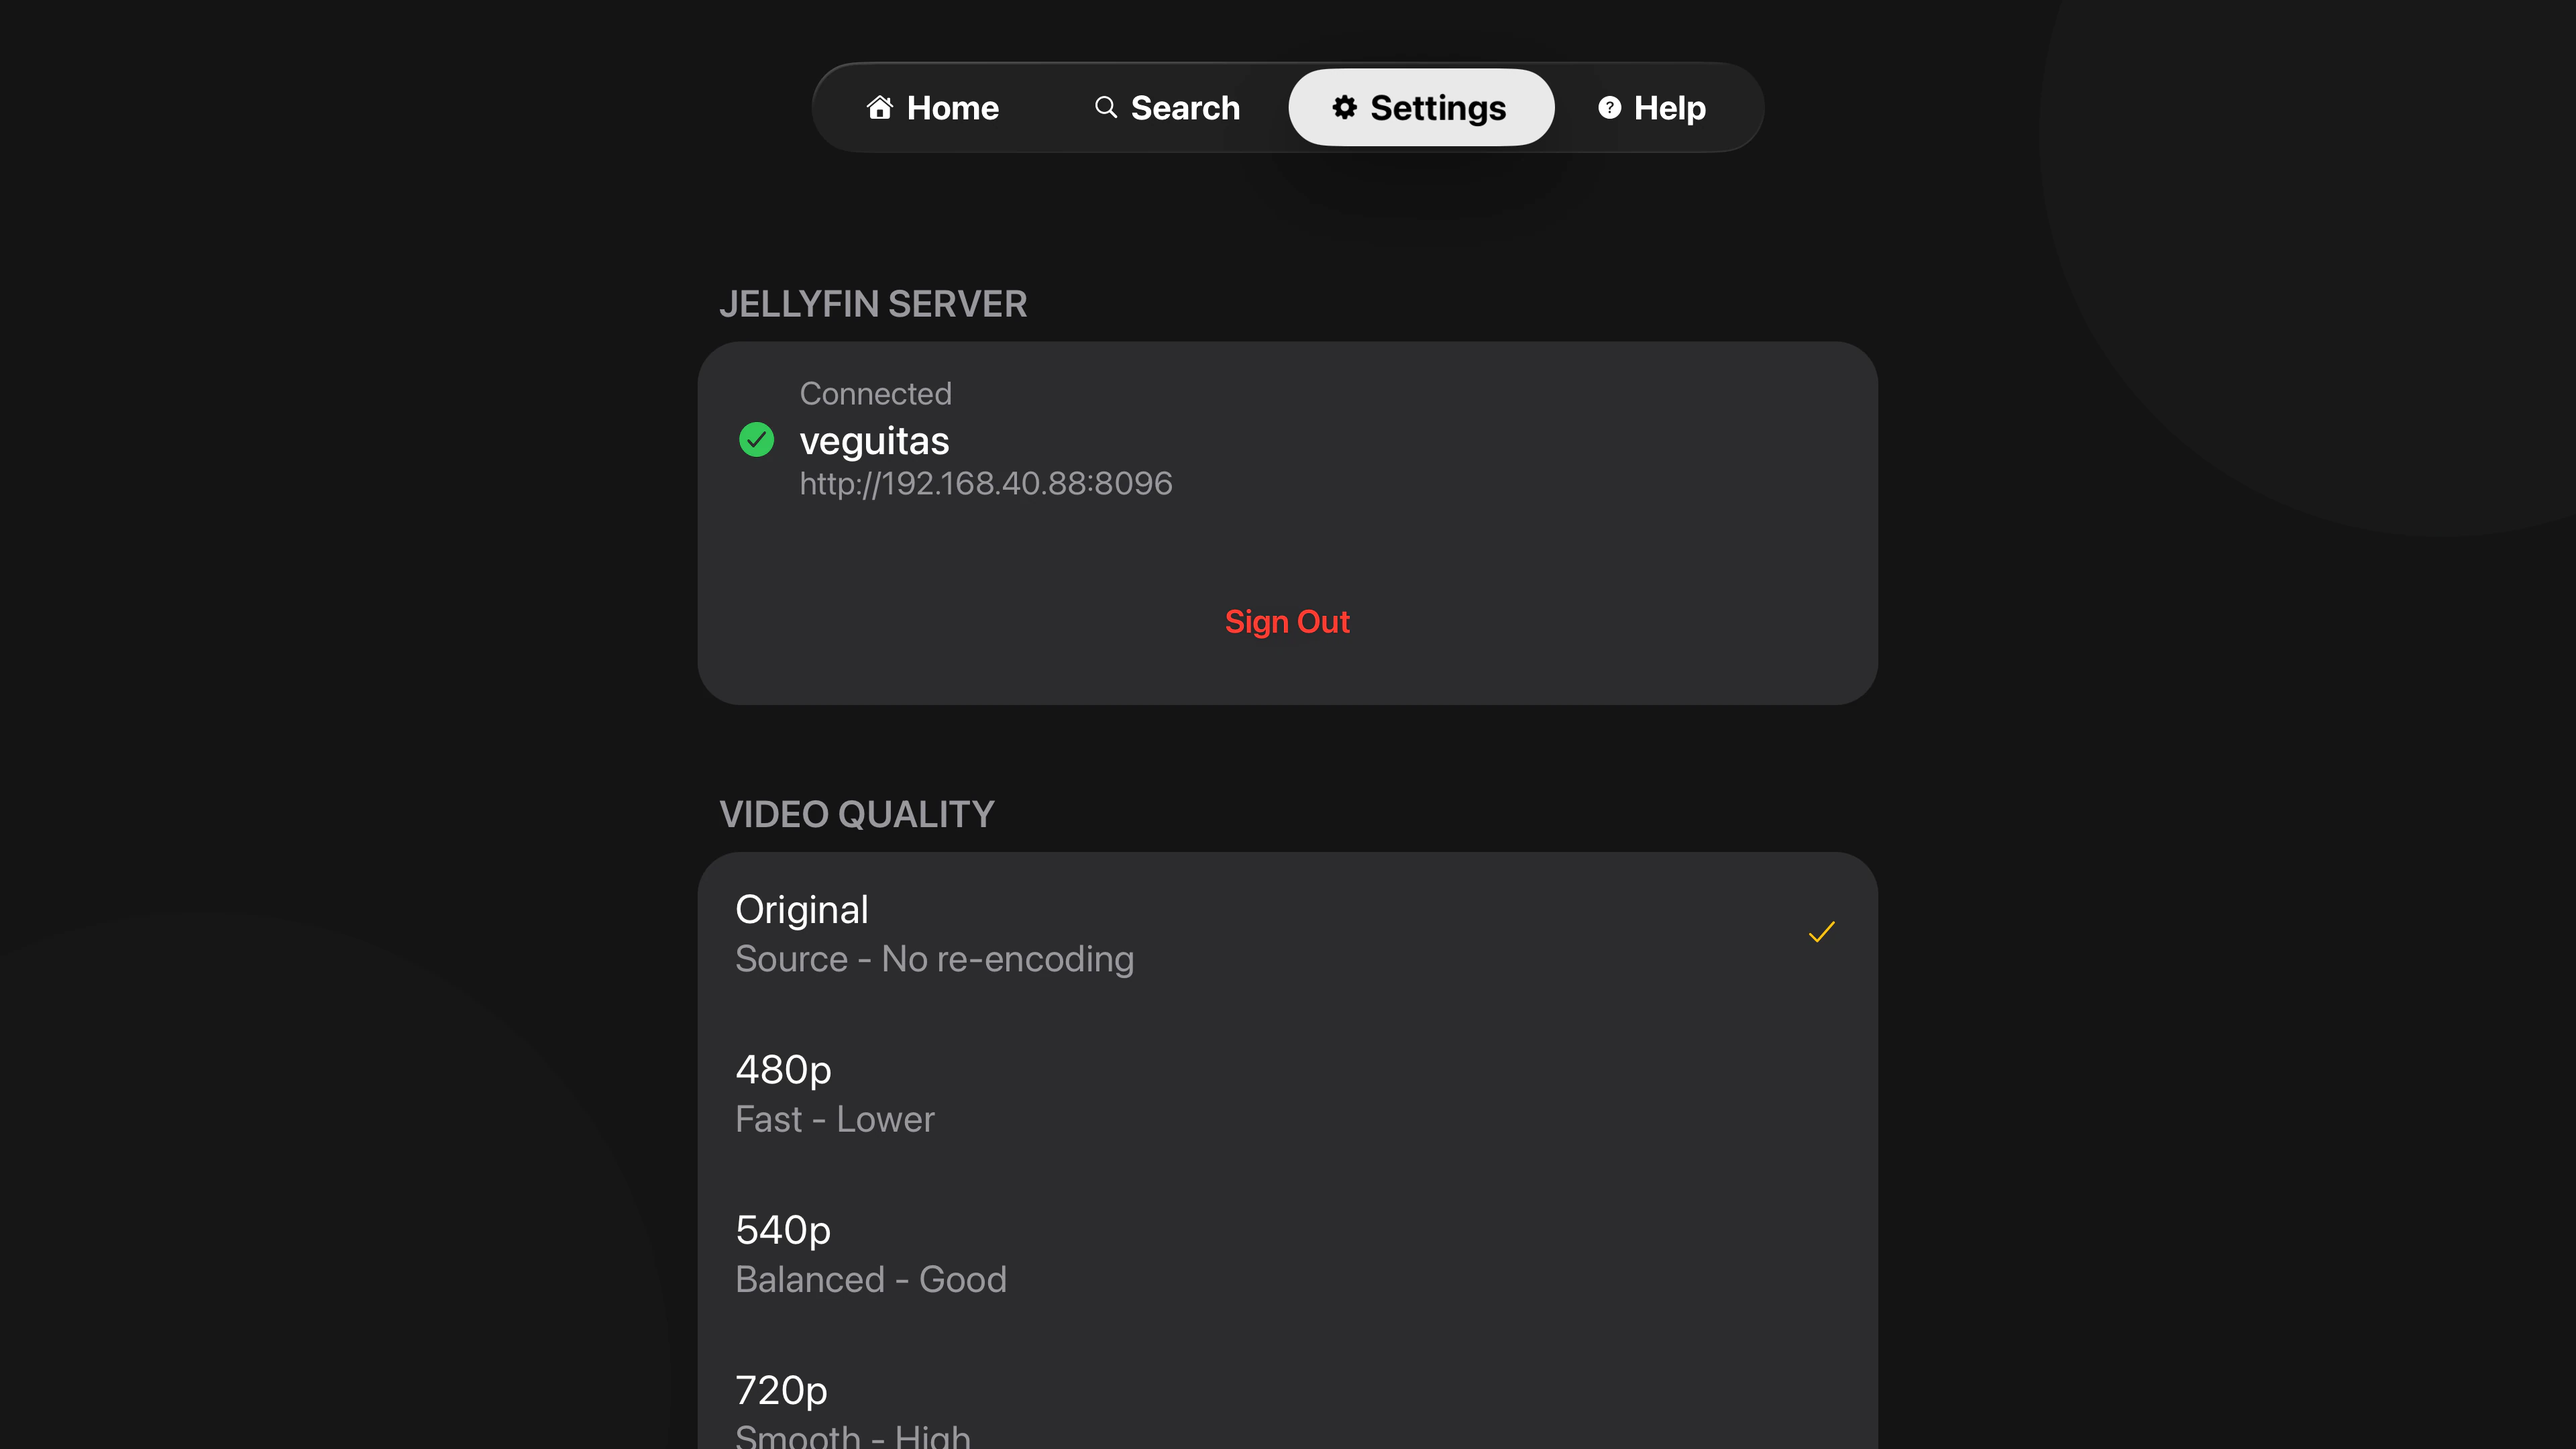
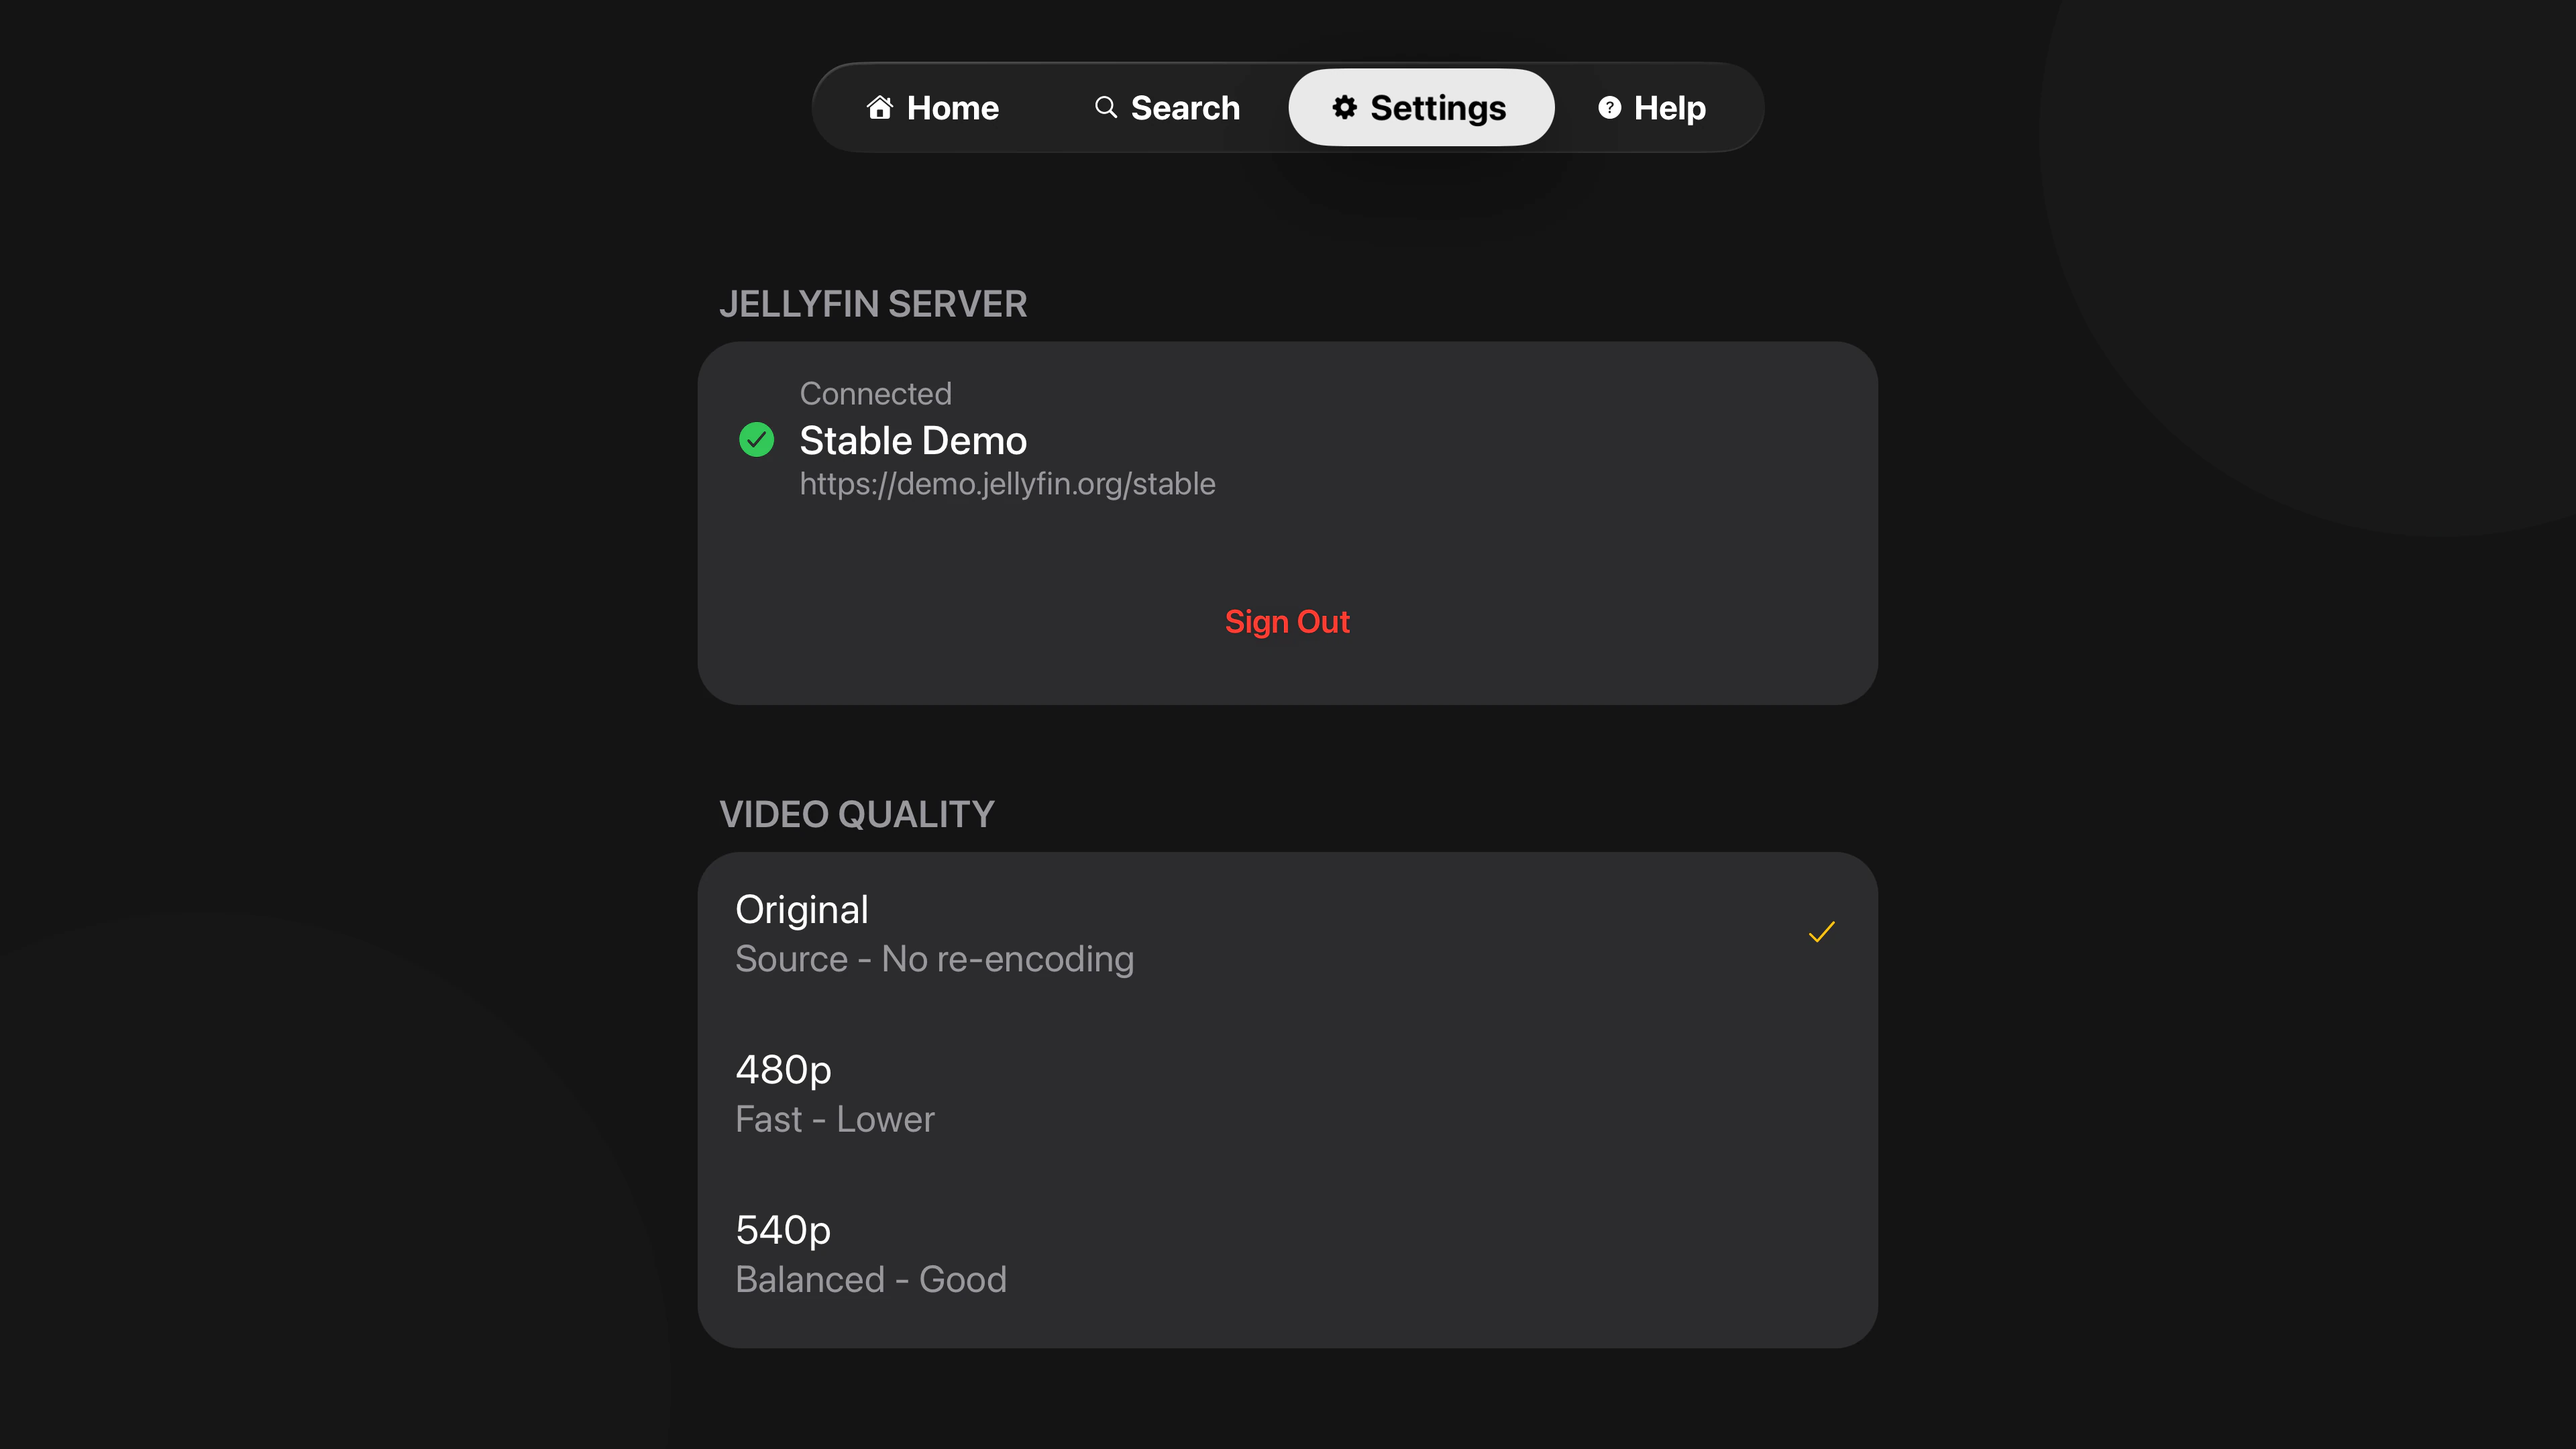
fix(settings): cap the video quality list and keep its focus escape on the first Up
The preset list ran off the bottom of the screen. It now scrolls inside the
section card (maxHeight 370 TV / 240 phone, ~3 rows) and clips to the card's
radius.

Making it a ScrollView exposed the tvOS focus-escape check in
RCTScrollViewComponentView: an upward focus move whose target sits outside the
scroll view is rejected whenever contentOffset.y > 0, so the first Up scrolled
the list and only the second reached Sign Out. Pinning the offset to 0 when the
first row takes focus makes the escape land on the first press.

Also refreshes the connected screenshot and adds the search one.

Changed region(s): [[0.25, 0.9306, 0.75, 1.0], [0.3125, 0.2792, 0.4688, 0.3412]]

diff --git a/app/(tabs)/settings.tsx b/app/(tabs)/settings.tsx
@@ -7,7 +7,7 @@ import { logger } from "@/utils/logger";
 import { Ionicons } from "@expo/vector-icons";
 import { useFocusEffect, useRouter } from "expo-router";
 import * as SecureStore from "expo-secure-store";
-import React, { useCallback, useState } from "react";
+import React, { useCallback, useRef, useState } from "react";
 import { ActivityIndicator, Alert, Keyboard, Platform, Pressable, ScrollView, StyleSheet, Text, View } from "react-native";
 
 const STORAGE_KEYS = {
@@ -109,6 +109,18 @@ export default function SettingsScreen() {
     ]);
   };
 
+  // tvOS can only move focus UP and OUT of a ScrollView while its contentOffset.y is exactly 0:
+  // RCTScrollViewComponentView's shouldUpdateFocusInContext (RN 0.85, line 1391) rejects any
+  // upward focus update whose target lives outside the scroll view whenever the view is scrolled
+  // even slightly. A rejected update leaves the press to scroll the list instead, which is the
+  // "first Up does nothing, second Up reaches Sign Out" behavior. Landing on the first row is the
+  // only moment focus can leave upward, so pin the offset to 0 there — unanimated, since the focus
+  // engine's own reveal scroll is already in flight and the correction is a few points at most.
+  const qualityListRef = useRef<ScrollView>(null);
+  const pinListToTop = useCallback(() => {
+    qualityListRef.current?.scrollTo({ y: 0, animated: false });
+  }, []);
+
   const handleQualityChange = async (qualityValue: number) => {
     try {
       setVideoQuality(qualityValue);
@@ -161,10 +173,14 @@ export default function SettingsScreen() {
                 <Text style={styles.sectionHeaderText}>VIDEO QUALITY</Text>
               </View>
 
-              <View style={styles.section}>
+              {/* The preset list is taller than the space left under the server card, so it
+                  scrolls inside the section instead of running off the bottom of the screen.
+                  The section's radius + overflow: hidden clip the rows to the card corners. */}
+              <ScrollView ref={qualityListRef} style={[styles.section, styles.sectionScrollable]} showsVerticalScrollIndicator={false} nestedScrollEnabled focusable={false}>
                 {QUALITY_PRESETS.map((preset, index) => (
                   <Pressable
                     key={preset.value}
+                    onFocus={index === 0 ? pinListToTop : undefined}
                     style={({ focused }) => [
                       styles.listItem,
                       index === 0 && styles.listItemFirst,
@@ -187,7 +203,7 @@ export default function SettingsScreen() {
                     </View>
                   </Pressable>
                 ))}
-              </View>
+              </ScrollView>
             </>
           )}
         </View>

diff --git a/components/settings/styles.ts b/components/settings/styles.ts
@@ -53,6 +53,13 @@ export const settingsStyles = StyleSheet.create({
     // Phone: 12 + the next header's 10 top padding = 22 between sections.
     marginBottom: Platform.isTV ? 32 : 12,
   },
+  // Video Quality is the one section long enough to run past the bottom of the
+  // screen, so it caps its height and scrolls internally. A row is ~120 (TV) /
+  // ~72 (phone) tall; the cap holds 3 rows plus a sliver of the fourth, so the
+  // clipped row reads as "there is more" rather than as a cut-off list.
+  sectionScrollable: {
+    maxHeight: Platform.isTV ? 370 : 240,
+  },
   // List Items
   listItem: {
     backgroundColor: "#2C2C2E",
